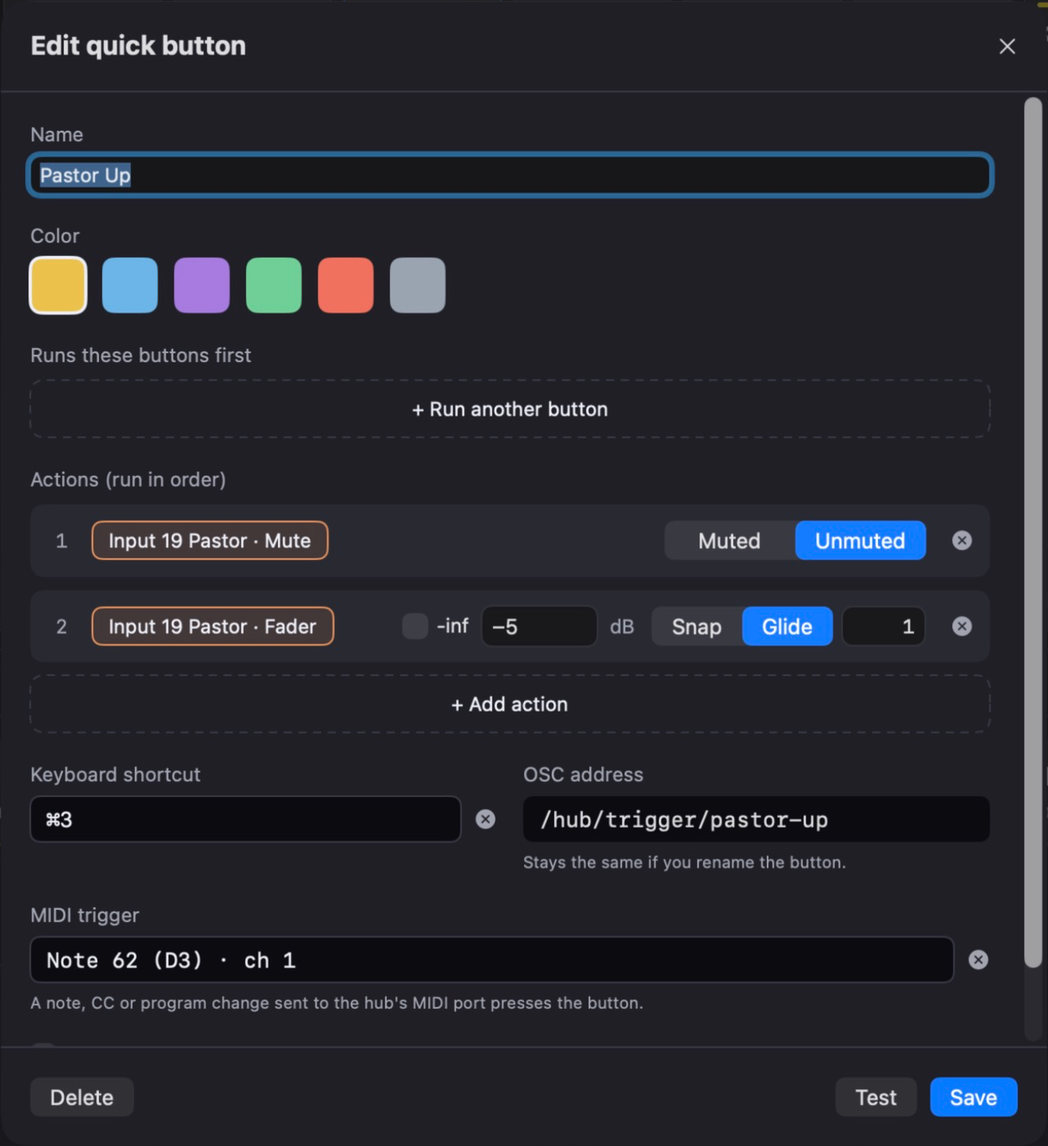
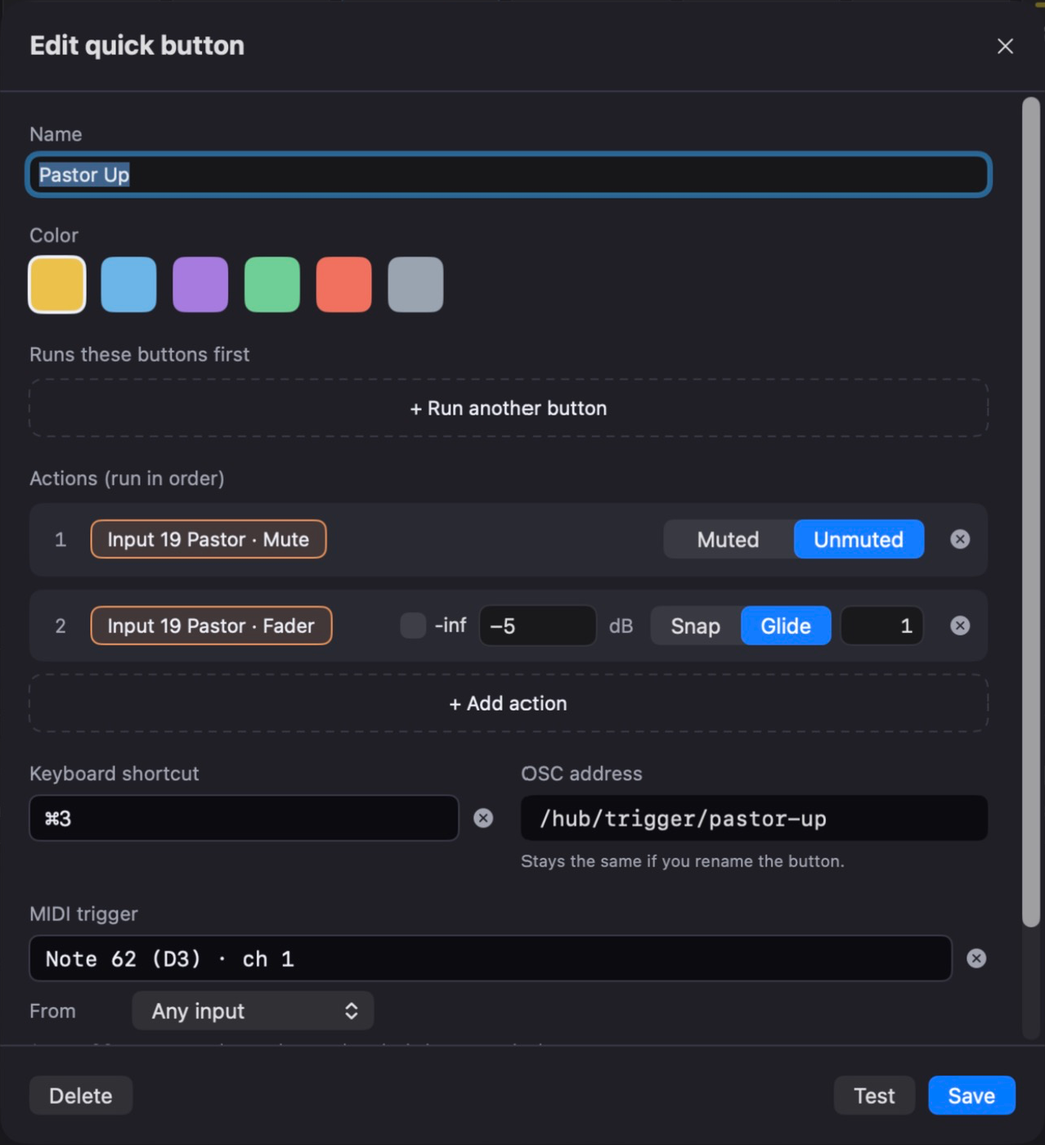
Publish Avantis Hub 0.9.5

diff --git a/manual.html b/manual.html
@@ -209,7 +209,7 @@
 <ol>
 <li>Put the Mac on the same network as the Avantis.</li>
 <li>Click the console pill, or open <strong>Settings &gt; Console</strong>.</li>
-<li>Type the console's address in <strong>Console IP</strong>. You will find it on the console under Utility / Control / Network.</li>
+<li>Click <strong>Find</strong> beside <strong>Console IP</strong> and pick your console from the list, or type its address. You will find it on the console under Utility / Control / Network.</li>
 <li>Set <strong>Base MIDI channel</strong> to match the console, under Utility / Control / MIDI. The console's default is 12 to 16. The hub shows the range as "12 to 16" because the console uses five MIDI channels in a row.</li>
 <li>Set <strong>Firmware</strong> to match the console. Choose <strong>V2.0 and later</strong> unless the console is still on older firmware.</li>
 <li>Click <strong>Connect</strong>.</li>
@@ -218,6 +218,14 @@
 <div class="note">The address, MIDI channel and firmware are locked while connected. Disconnect to change them.</div>
 <h3>Firmware</h3>
 <p>Firmware V2.0 added inputs 65 to 96, more groups, auxes and matrices, and the UFX sends and returns. On <strong>Before V2.0</strong> the hub leaves those out and never sends to them. A mapping that points at something the chosen firmware does not have is put on hold and says why.</p>
+<h3>Finding the console</h3>
+<p><strong>Find</strong> asks the network which Avantis consoles are there and lists each one that answers, with its name, address and firmware. Click one to put its address in Console IP. That is all it does: it never connects and never changes an address by itself.</p>
+<ul>
+<li>It only reaches consoles on the same network as the Mac. A console on another network, reached through a router, does not answer and has to be typed in.</li>
+<li>Every Avantis gives the same name unless it has been renamed, so where there is more than one, check the address against the console's Utility / Control / Network screen.</li>
+<li>If the console's address changes, as it can when the network hands addresses out, click Find again and pick it.</li>
+<li>When a board will not connect, the hub looks once for a console at another address. If exactly one that could be yours answers, a banner offers it, with <strong>Use This Address</strong> and <strong>Not Now</strong>. The hub never changes the address by itself. If two consoles answer, or the board's own address answers, it offers nothing.</li>
+</ul>
 <h3>One control connection at a time</h3>
 <p>The console answers one connection on its MIDI control port at a time. If another app on the network is already using that port, the hub connects but gets no names back. Close the other app, or the other hub, and reconnect.</p>
 <p>Avantis Director and Allen &amp; Heath's tablet apps use a different connection, so they can stay open alongside the hub.</p>
@@ -310,15 +318,17 @@
 <li>Choose the mode and its values (below).</li>
 <li>Click <strong>Done</strong>.</li>
 </ol>
+<p>You can also start from the target: with no mapping selected, click a target in the right column and a new mapping opens for it, ready for its trigger. Cancel removes it again.</p>
 <h3>The inspector</h3>
 <p>Selecting a mapping opens its inspector under the list.</p>
-<figure class=""><img src="img/mac-inspector.png" alt="The inspector for a Set mapping. With a mapping open, each trigger on the left offers Use." width="1388" height="898" loading="lazy"><figcaption>The inspector for a Set mapping. With a mapping open, each trigger on the left offers Use.</figcaption></figure>
+<figure class=""><img src="img/mac-inspector.png" alt="The inspector for a Set mapping. With a mapping open, each trigger on the left offers Use." width="1112" height="826" loading="lazy"><figcaption>The inspector for a Set mapping. With a mapping open, each trigger on the left offers Use.</figcaption></figure>
 <ul>
 <li><strong>Done</strong> keeps the mapping as it is now and closes the inspector.</li>
 <li><strong>Cancel</strong>, the close button or <strong>Esc</strong> backs out. The mapping goes back to how it was when you opened it, and a brand new mapping is removed.</li>
 <li><strong>Delete Mapping</strong> removes it.</li>
 <li><strong>Change Target</strong> replaces a row's target with the next one you click. The small x clears a row.</li>
 </ul>
+<p>It reads from top to bottom in three parts: what triggers the mapping (<strong>Trigger</strong> and <strong>From</strong>), how it behaves (<strong>Mode</strong>, and where they apply <strong>Range</strong>, <strong>Glide</strong> and <strong>Direction</strong>), and what it controls (<strong>Target</strong>).</p>
 <p>A new MIDI trigger starts on the channel you used last, to save retyping it.</p>
 <h3>Trigger types</h3>
 <table>
@@ -338,7 +348,7 @@
 <tr><td><strong>Value</strong></td><td>Follows the incoming value between a Min and a Max.</td><td>A physical fader or knob riding a level.</td></tr>
 </table>
 <p>For mutes, the hub says <strong>Muted</strong> and <strong>Unmuted</strong> instead of on and off, because "on" for a mute means silent, which reads backwards. Assignments say On and Off.</p>
-<p>For a fader in Value mode, Min and Max are levels in dB. A controller at its lowest gives Min and at its highest gives Max. Tick <strong>-inf</strong> to make Min fully off. <strong>Invert</strong> turns it round, so the controller at its highest gives Min.</p>
+<p>For a fader in Value mode, <strong>Range</strong> gives the Min and the Max, as levels in dB. A controller at its lowest gives Min and at its highest gives Max. Tick <strong>-inf</strong> to make Min fully off. <strong>Invert</strong> turns it round, so the controller at its highest gives Min.</p>
 <h3>The mapping list</h3>
 <ul>
 <li><strong>By trigger</strong> groups the list under each trigger, with everything it controls. <strong>By target</strong> groups it under each channel, with everything that controls it. A mapping with several targets appears under each.</li>
@@ -371,6 +381,26 @@
 <li><strong>Mute group assign:</strong> membership of each of the 8 mute groups.</li>
 </ul>
 <p>How many of each your console actually uses depends on how it is configured. A target for a mix your show does not have simply does nothing.</p>
+<h3>UFX key and scale</h3>
+<p>On firmware V2.0 and later, the hub can set the key and the scale that the console's UFX pitch effects follow, such as a vocal tuner. They are in Board Targets under <strong>UFX</strong>: twelve keys from C to B, and the scales Major, Minor and Chromatic.</p>
+<ul>
+<li>Each is sent on a press, like a scene recall. There is no value to choose and nothing to toggle.</li>
+<li>Key and scale are separate. A cue for "G minor" is one trigger with two targets: Key G and Scale Minor.</li>
+<li>They are the console's global key and scale. An effect set to follow its own key ignores them.</li>
+<li>The hub cannot read the key the console is on, so it never shows one.</li>
+<li>On a board set to firmware before V2.0 they are not offered, and a mapping that uses one is held and says why.</li>
+</ul>
+<h3>A UFX unit's own parameters</h3>
+<p>The console can give each UFX unit a MIDI channel of its own, and tie some of that unit's parameters, such as a vocal tuner's Bypass, Retune or Correction, to controller numbers you choose. That is set on the console under FX / UFX / Show Routing / MIDI Settings. The hub can then set those parameters.</p>
+<ul>
+<li>In Board Targets, open <strong>UFX</strong>. Under <strong>Parameters</strong> each one has a name, with its MIDI channel and controller number beside it. Click a name to use it as a target.</li>
+<li>A board starts with three for a vocal tuner: bypass, correction and retune, on MIDI channel 6, controllers 20 to 22. Units given the same channel and controller number on the console switch together, so one bypass covers every tuner. The console has no numbers of its own for these, so either set the same ones on the console or change these to match it.</li>
+<li>To add one, type the channel, the controller number and a name, and click <strong>Add</strong>. The fields start on the channel used last and its next free controller number. The pencil beside a name puts it in the fields to rename it. Saving an empty name removes it from the list. Mappings that already use it keep working and show its numbers instead.</li>
+<li>The names are kept with the board.</li>
+<li>The value is a plain number from 0 to 127, which the console spreads across whatever the parameter can be. In Set mode you choose the number. Toggle alternates between 127 and 0. Value mode lets a fader ride it.</li>
+<li>The unit's channel must not be one of the console's own five. A mapping that uses one of those is held and says why.</li>
+<li>Which number means what is up to the unit. Find it by trying it on the console before a service.</li>
+</ul>
 <h3>Levels</h3>
 <p>Faders run from -inf (off) through 0 dB (unity) to +10 dB. The console moves in steps of about half a dB, so a level lands on the nearest step.</p>
 <h3>Scenes</h3>
@@ -445,7 +475,7 @@
 <li>Click <strong>Edit</strong>, then a button, to change it. While editing, drag buttons to reorder them.</li>
 <li>The <strong>-</strong> and <strong>+</strong> beside Edit change the size of the tiles.</li>
 </ul>
-<figure class="small"><img src="img/mac-button-editor.png" alt="The quick button editor." width="641" height="701" loading="lazy"><figcaption>The quick button editor.</figcaption></figure>
+<figure class="small"><img src="img/mac-button-editor.png" alt="The quick button editor." width="639" height="700" loading="lazy"><figcaption>The quick button editor.</figcaption></figure>
 <h3>In the editor</h3>
 <table>
 <tr><th>Field</th><th>What it does</th></tr>
@@ -466,10 +496,24 @@
 <p>Click the tile, use its shortcut, send its MIDI trigger or OSC address, tap it on a phone, or use the menu bar panel. A tile is dimmed when the hub is disarmed or not connected. Hover over a tile to see its OSC address.</p>
 
 <nav class="pager" aria-label="More topics"><a class="prev" href="#show"><small>Previous</small>Show view</a><a class="next" href="#inputs"><small>Next</small>Sending cues: MIDI, OSC, Ableton Live</a></nav></section><section class="topic" data-topic="inputs"><h2 id="inputs">14. Sending cues: MIDI, OSC, Ableton Live</h2>
-<p>Click the <strong>Inputs</strong> pill for these settings. They are also under <strong>Settings &gt; Inputs</strong>.</p>
+<p>Click the <strong>Inputs</strong> pill for these settings. They are also under <strong>Settings &gt; Inputs</strong>. There is a tab for each kind: MIDI, OSC and Ableton Live.</p>
 <h3>MIDI</h3>
 <p>The hub creates a MIDI port called <strong>Avantis Hub</strong>. Any app on the same Mac can send to it: choose it as a MIDI output in Ableton Live, MainStage, QLab, a controller editor and so on. There is nothing to switch on.</p>
-<p>To use a hardware controller, route it to the Avantis Hub port with your DAW or a MIDI routing app.</p>
+<p>The hub can also listen to other MIDI inputs on the Mac: a hardware controller, a network MIDI session, or a port that brings MIDI from another computer. They are listed on the MIDI tab under the hub's own port, each with a switch, and all start off. A dot beside each one lights when MIDI arrives on it, whether it is switched on or not, so you can move a control, see which input lights, and switch that one on. Switch one on and its notes, control changes and program changes arrive as triggers, exactly as if they had been sent to the Avantis Hub port.</p>
+<ul>
+<li>Every input you switch on can fire every mapping and quick button, unless a mapping is tied to one input: in the inspector, <strong>From</strong> under the trigger chooses Any input, the Avantis Hub port, one of the inputs you have switched on, or the console. A tied mapping shows the input's name on its trigger and ignores the same note from anywhere else. A quick button's MIDI trigger has the same <strong>From</strong> choice in the button's editor.</li>
+<li>The choice belongs to this Mac. It is not part of the profile and is not shared with other Macs.</li>
+<li>An input that is unplugged stays in the list as <strong>Not connected</strong>, and the hub picks it up again when it comes back. The Monitor says when it goes and when it returns.</li>
+<li>Do not switch on an input that an app is already passing on to the Avantis Hub port. Each cue would arrive twice, and a toggle would flip and flip back.</li>
+</ul>
+<h3>SoftKeys and MIDI strips on the console</h3>
+<p>The console itself can send cues. A SoftKey, or a fader strip set up as a MIDI strip, can be given a MIDI message of your own on the console. With <strong>Use the console's SoftKeys and MIDI strips as triggers</strong> switched on for a board, in the console settings, those messages arrive in the hub as triggers and show in the Monitor as coming from <strong>Console</strong>.</p>
+<ul>
+<li>Set the SoftKey or strip to send a note or a control change on a MIDI channel <strong>outside</strong> the console's own five. With the console on 12 to 16, use 1 to 11. A message on one of the console's own channels is read as the console reporting a change, never as a trigger.</li>
+<li>Map it like any other trigger, or use Learn and press the SoftKey.</li>
+<li>The option is per board and off to start with. The hub must still be Armed for anything to reach the console.</li>
+<li>This relies on the console passing those messages over its network connection. Check it on your console before depending on it.</li>
+</ul>
 <h3>OSC</h3>
 <ul>
 <li><strong>Listen for OSC</strong> turns the listener on.</li>
@@ -678,23 +722,23 @@
 <li><strong>Paired devices:</strong> one line each with what it may do and when it was last seen. Click a device for its settings.</li>
 </ul>
 <h3>Console</h3>
-<figure class="small"><img src="img/mac-settings-console.png" alt="Settings > Console." width="559" height="805" loading="lazy"><figcaption>Settings > Console.</figcaption></figure>
+<figure class="small"><img src="img/mac-settings-console.png" alt="Settings > Console." width="559" height="619" loading="lazy"><figcaption>Settings > Console.</figcaption></figure>
 <ul>
-<li><strong>Board</strong>, <strong>New Board</strong> and <strong>Delete Board</strong>.</li>
-<li>The board's <strong>Name</strong>, <strong>Console IP</strong>, <strong>Base MIDI channel</strong> and <strong>Firmware</strong>, and <strong>Connect</strong> or <strong>Disconnect</strong>.</li>
-<li><strong>Read input mutes on connecting (experimental)</strong>. See <a href="#console">Connecting to the console</a>.</li>
-<li><strong>Connect when the app opens</strong> and <strong>Arm when the console connects</strong>.</li>
+<li><strong>Connection</strong> tab: <strong>Board</strong>, <strong>New Board</strong> and <strong>Delete Board</strong>, then the board's <strong>Name</strong>, <strong>Console IP</strong> with <strong>Find</strong>, <strong>Base MIDI channel</strong> and <strong>Firmware</strong>.</li>
+<li><strong>Options</strong> tab, kept with the board: <strong>Read input mutes on connecting (experimental)</strong> (see <a href="#console">Connecting to the console</a>) and <strong>Use the console's SoftKeys and MIDI strips as triggers</strong> (see <a href="#inputs">Sending cues</a>).</li>
+<li><strong>Startup</strong> tab, kept with this Mac: <strong>Connect when the app opens</strong> and <strong>Arm when the console connects</strong>.</li>
+<li><strong>Connect</strong> or <strong>Disconnect</strong> is at the bottom of every tab.</li>
 <li><strong>Shape of a glide:</strong> Even or Eased.</li>
 </ul>
 <h3>Inputs</h3>
-<figure class="small"><img src="img/mac-settings-inputs.png" alt="Settings > Inputs." width="559" height="709" loading="lazy"><figcaption>Settings > Inputs.</figcaption></figure>
+<figure class="small"><img src="img/mac-settings-inputs.png" alt="Settings > Inputs." width="559" height="408" loading="lazy"><figcaption>Settings > Inputs.</figcaption></figure>
 <ul>
-<li><strong>MIDI:</strong> the name of the hub's port, or the reason it could not be opened.</li>
+<li><strong>MIDI:</strong> the name of the hub's port, or the reason it could not be opened, and a switch for each other MIDI input on the Mac. See <a href="#inputs">Sending cues</a>.</li>
 <li><strong>OSC:</strong> Listen for OSC and the UDP port.</li>
 <li><strong>Ableton Live:</strong> the switch, the state of the link, and the address and ports.</li>
 </ul>
 <h3>Sharing</h3>
-<figure class="small"><img src="img/mac-settings-sharing.png" alt="Settings > Sharing." width="559" height="709" loading="lazy"><figcaption>Settings > Sharing.</figcaption></figure>
+<figure class="small"><img src="img/mac-settings-sharing.png" alt="Settings > Sharing." width="559" height="440" loading="lazy"><figcaption>Settings > Sharing.</figcaption></figure>
 <p>The shared folder, if any, with <strong>Show in Finder</strong>, <strong>Choose Another Folder</strong> and <strong>Stop Sharing</strong>.</p>
 <h3>Updates</h3>
 <figure class="small"><img src="img/mac-settings-updates.png" alt="Settings > Updates." width="559" height="470" loading="lazy"><figcaption>Settings > Updates.</figcaption></figure>
@@ -728,7 +772,7 @@
 <tr><td>Connected, but channel names do not appear</td><td>The Base MIDI channel does not match the console, or another app is already using the console's MIDI control port.</td></tr>
 <tr><td>Channels above 64 are missing, or a mapping says its target is not on this firmware</td><td>The board's Firmware is set to Before V2.0.</td></tr>
 <tr><td>A trigger shows in the Monitor but nothing changes</td><td>The hub is disarmed, the mapping is switched off, or the mapping is on hold after a name change.</td></tr>
-<tr><td>Nothing shows in the Triggers column</td><td>The sender is not using the Avantis Hub MIDI port, or OSC is off or on another port.</td></tr>
+<tr><td>Nothing shows in the Triggers column</td><td>The sender is not using the Avantis Hub MIDI port, a controller's input is not switched on in the Inputs settings, or OSC is off or on another port.</td></tr>
 <tr><td>A fader shows ? or is dimmed</td><td>The console has not reported it since connecting. Move it once.</td></tr>
 <tr><td>A mute reads MUTE ?</td><td>The console has not reported that mute on this connection. Press it, or change it at the console.</td></tr>
 <tr><td>Show view seems to be missing channels</td><td>Named is on, and those channels have no name on the console.</td></tr>

diff --git a/faq.html b/faq.html
@@ -166,7 +166,7 @@
 </div></details><details class="qa"><summary>Does anything need to be installed on the console?</summary><div class="body">
 <p>No. The hub uses the control port the Avantis already has. You only need its IP address and its MIDI channel setting.</p>
 </div></details><details class="qa"><summary>Do I need a MIDI interface or cable?</summary><div class="body">
-<p>No. The hub talks to the console over the network. MIDI from apps on the Mac reaches the hub through a software port called "Avantis Hub".</p>
+<p>No. The hub talks to the console over the network. MIDI from apps on the Mac reaches the hub through a software port called "Avantis Hub". If you do have a controller or interface, the hub can listen to it directly.</p>
 </div></details><details class="qa"><summary>Can I use it with no MIDI or OSC at all?</summary><div class="body">
 <p>Yes. Quick buttons, their keyboard shortcuts, the menu bar panel and the phone app need nothing else.</p>
 </div></details><details class="qa"><summary>Which Macs and devices does it run on?</summary><div class="body">
@@ -177,10 +177,14 @@
 </div></details></section><section class="group" id="connect"><h2>Connecting to the console</h2>
 <details class="qa"><summary>The hub will not connect.</summary><div class="body">
 <ul>
-<li>Check the Mac and console are on the same network and the IP address is right. The address is on the console under Utility / Control / Network.</li>
+<li>Check the Mac and console are on the same network and the IP address is right. Click <strong>Find</strong> beside Console IP to list the consoles that answer, or read the address on the console under Utility / Control / Network.</li>
 <li>Check macOS allows it: System Settings &gt; Privacy &amp; Security &gt; Local Network, with Avantis Hub switched on.</li>
 <li>If the venue network is managed, ask whether devices are allowed to reach each other.</li>
 </ul>
+</div></details><details class="qa"><summary>Find does not list my console.</summary><div class="body">
+<p>Find only reaches consoles on the same network as the Mac. A console on another network, reached through a router, does not answer and has to be typed in. Check the Local Network permission as well.</p>
+</div></details><details class="qa"><summary>A banner says my console answered at another address.</summary><div class="body">
+<p>The board would not connect, so the hub looked once and found one console that could be yours somewhere else. This happens when the network hands the console a new address. Check the name, then click Use This Address, or Not Now to leave things alone. The hub never changes the address by itself, and it offers nothing if two consoles answer.</p>
 </div></details><details class="qa"><summary>It connects, but no channel names appear.</summary><div class="body">
 <p>The Base MIDI channel does not match the console. Set it to the same value as Utility / Control / MIDI on the console. The console's default is 12 to 16.</p>
 <p>If the channel is right, something else may already be using the console's MIDI control port. The console answers one such connection at a time, so a second one connects and hears nothing. Close the other app or the other hub and reconnect.</p>
@@ -232,9 +236,17 @@
 </div></details></section><section class="group" id="map"><h2>Mappings and triggers</h2>
 <details class="qa"><summary>Nothing shows in the Triggers column.</summary><div class="body">
 <ul>
-<li><strong>MIDI:</strong> the sending app must use the port called "Avantis Hub" as its output.</li>
+<li><strong>MIDI:</strong> the sending app must use the port called "Avantis Hub" as its output. A hardware controller must be switched on under MIDI in the Inputs settings.</li>
 <li><strong>OSC:</strong> Listen for OSC must be on, and the sender must use the Mac's address and the hub's port (9300 unless changed).</li>
 </ul>
+</div></details><details class="qa"><summary>Can a hardware controller or another computer send cues?</summary><div class="body">
+<p>Yes. In the Inputs settings, the MIDI tab lists every MIDI input on the Mac. Move a control, see which input's dot lights, and switch that one on. A network MIDI session from another computer or an iPad shows up the same way.</p>
+</div></details><details class="qa"><summary>Every cue is arriving twice.</summary><div class="body">
+<p>An input is switched on that an app is already passing on to the Avantis Hub port, so the hub hears the same note by two routes. Switch that input off, or tie the mapping to one of the two with From in the inspector.</p>
+</div></details><details class="qa"><summary>Can the same note do different things from different controllers?</summary><div class="body">
+<p>Yes. In a mapping's inspector, or a quick button's editor, <strong>From</strong> ties the trigger to one input: the Avantis Hub port, one of the inputs you switched on, or the console. Left on Any input, it fires from all of them.</p>
+</div></details><details class="qa"><summary>Can a SoftKey on the console fire a cue?</summary><div class="body">
+<p>Yes, if the console passes its SoftKey MIDI over the network. Turn on "Use the console's SoftKeys and MIDI strips as triggers" in the board's Options, and set the SoftKey on the console to send a note on a MIDI channel outside the console's own five. See <a href="manual.html#inputs">Sending cues</a>.</p>
 </div></details><details class="qa"><summary>My note shows up as C3 but my other software calls it C4.</summary><div class="body">
 <p>The hub names notes the way Ableton Live and Logic do, where middle C (note 60) is C3. Some software calls the same note C4. The note number is what matters, and it is the same.</p>
 </div></details><details class="qa"><summary>What is the difference between Toggle and Set?</summary><div class="body">
@@ -250,11 +262,15 @@
 </div></details><details class="qa"><summary>I closed the inspector and lost my changes.</summary><div class="body">
 <p>Cancel, the close button and Esc all back out. Done keeps the changes. Reopen the mapping, make the change again and click Done. For a bigger loss, use Restore from Backup in the Profile menu.</p>
 </div></details><details class="qa"><summary>Can I map a hardware fader to a console fader?</summary><div class="body">
-<p>Yes, with a Value mapping. Set Min and Max to the range the fader should cover.</p>
+<p>Yes, with a Value mapping. Set Range to the levels the fader should cover. If the fader is on a controller, switch its input on in the Inputs settings first.</p>
 </div></details><details class="qa"><summary>Can a mapping fade a level over time?</summary><div class="body">
 <p>Yes. Set the level change to Glide and give it a time. See <a href="manual.html#glides">Snap and Glide</a>.</p>
 </div></details><details class="qa"><summary>Can I control EQ, compressors, gain or pan?</summary><div class="body">
-<p>No. The hub offers what the console's control protocol exposes: mutes, faders, sends, assignments and scene recall. For anything else, store it in a scene on the console and have the hub recall the scene.</p>
+<p>No. The hub offers what the console's control protocol exposes: mutes, faders, sends, assignments and scene recall. On firmware V2.0 and later it also offers the key and scale for the UFX pitch effects, and any UFX parameter the console has been set up to take by MIDI. For anything else, store it in a scene on the console and have the hub recall the scene.</p>
+</div></details><details class="qa"><summary>Can the hub set the key for a vocal tuner, or switch it on and off?</summary><div class="body">
+<p>On firmware V2.0 and later, yes. Board Targets has a UFX group with the twelve keys and three scales, which set the console's global key and scale. Under Parameters it has named entries, such as Tuner bypass, for parameters you have given a MIDI channel and controller number on the console. A cue at the top of a song can set the key and scale and take the tuner out of bypass together. See <a href="manual.html#targets">What can be controlled</a>.</p>
+</div></details><details class="qa"><summary>How do I start a mapping from the thing I want to control?</summary><div class="body">
+<p>With no mapping selected, click the target in Board Targets. A new mapping opens for it, ready for its trigger.</p>
 
 </div></details></section><section class="group" id="qb"><h2>Quick buttons</h2>
 <details class="qa"><summary>What is the difference between a mapping and a quick button?</summary><div class="body">

diff --git a/release-notes.html b/release-notes.html
@@ -142,13 +142,32 @@
 <aside id="side">
 <button type="button" id="menu" aria-label="Show or hide the versions">Versions</button>
 <div class="brand">Avantis Hub<span>Release Notes</span></div>
-<nav id="contents" aria-label="Versions" style="margin-top:18px"><a href="#v0-9-4"><span class="t">Version 0.9.4</span><span class="when">Oct 7</span></a><a href="#v0-9-3"><span class="t">Version 0.9.3</span><span class="when">Oct 6</span></a><a href="#v0-9-2"><span class="t">Version 0.9.2</span><span class="when">Oct 6</span></a><a href="#v0-9-1"><span class="t">Version 0.9.1</span><span class="when">Oct 6</span></a><a href="#v0-9"><span class="t">Version 0.9</span><span class="when">Oct 6</span></a></nav>
+<nav id="contents" aria-label="Versions" style="margin-top:18px"><a href="#v0-9-5"><span class="t">Version 0.9.5</span><span class="when">Oct 9</span></a><a href="#v0-9-4"><span class="t">Version 0.9.4</span><span class="when">Oct 7</span></a><a href="#v0-9-3"><span class="t">Version 0.9.3</span><span class="when">Oct 6</span></a><a href="#v0-9-2"><span class="t">Version 0.9.2</span><span class="when">Oct 6</span></a><a href="#v0-9-1"><span class="t">Version 0.9.1</span><span class="when">Oct 6</span></a><a href="#v0-9"><span class="t">Version 0.9</span><span class="when">Oct 6</span></a></nav>
 <div class="other"><a href="manual.html">User Manual</a><a href="faq.html">FAQ</a></div>
 </aside>
 <main>
 <h1>Release notes</h1>
 <div class="subtitle">What changed in each version.</div>
-<section class="release" id="v0-9-4"><h2>Version 0.9.4<span class="date">October 7, 2026</span></h2>
+<section class="release" id="v0-9-5"><h2>Version 0.9.5<span class="date">October 9, 2026</span></h2>
+<h3>New</h3>
+<ul>
+<li><strong>Other MIDI inputs.</strong> The hub can listen to a hardware controller, a network MIDI session or any other MIDI input on the Mac, as well as its own port. Switch each one on in the Inputs settings. A dot beside each input lights when it carries MIDI, so you can see which one a controller is on.</li>
+<li><strong>Find.</strong> A button beside Console IP lists the Avantis consoles on the network. Click one to use its address.</li>
+<li><strong>A console that has moved.</strong> When a board will not connect and one console that could be yours answers at another address, a banner offers it. The hub never changes the address by itself.</li>
+<li><strong>UFX key and scale.</strong> On firmware V2.0 and later, a mapping or quick button can set the key and scale the console's UFX pitch effects follow.</li>
+<li><strong>UFX parameters.</strong> A mapping or quick button can set a parameter of a UFX unit, such as a vocal tuner's bypass, once it has a MIDI channel and controller number on the console. Each has a name, kept with the board.</li>
+<li><strong>SoftKeys and MIDI strips as triggers.</strong> A board can take MIDI the console sends from a SoftKey or MIDI strip as a trigger. It is off unless you turn it on.</li>
+<li><strong>From.</strong> A mapping, or a quick button's MIDI trigger, can be tied to one MIDI input, so the same note from another input does nothing.</li>
+<li>Clicking a target with no mapping selected starts a new mapping for it.</li>
+</ul>
+<h3>Changed</h3>
+<ul>
+<li>The Inputs settings have a tab each for MIDI, OSC and Ableton Live.</li>
+<li>The board settings have three tabs, Connection, Options and Startup, with Connect at the bottom of each.</li>
+<li>The mapping inspector is laid out in rows that line up.</li>
+<li>The settings windows are as tall as what they hold.</li>
+</ul>
+</section><section class="release" id="v0-9-4"><h2>Version 0.9.4<span class="date">October 7, 2026</span></h2>
 <h3>New</h3>
 <ul>
 <li><strong>Firmware V2.0.</strong> The hub now reaches inputs 65 to 96, the extra groups, auxes and matrices, and the UFX sends and returns. Each board has a Firmware setting: choose "Before V2.0" for a console on older firmware.</li>
